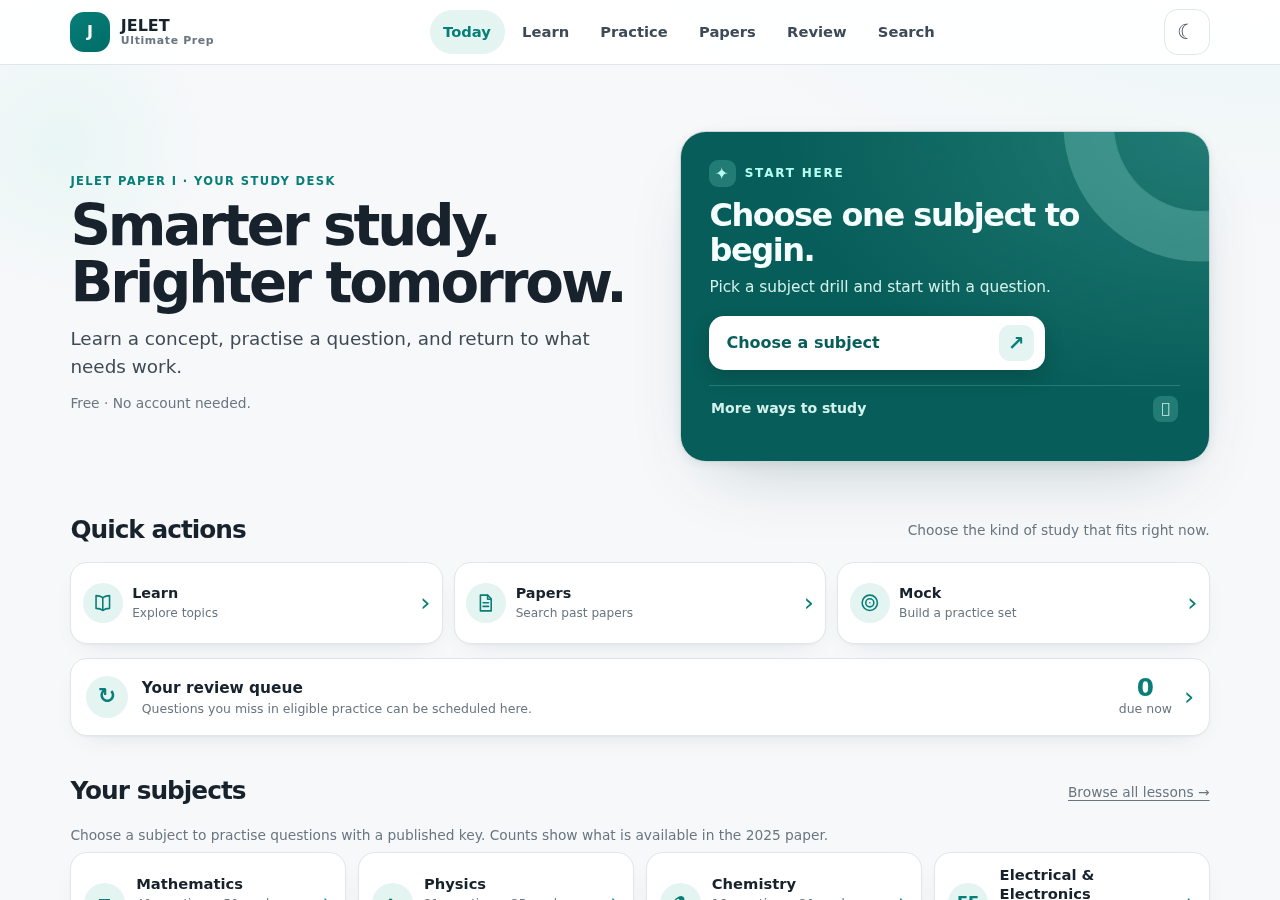
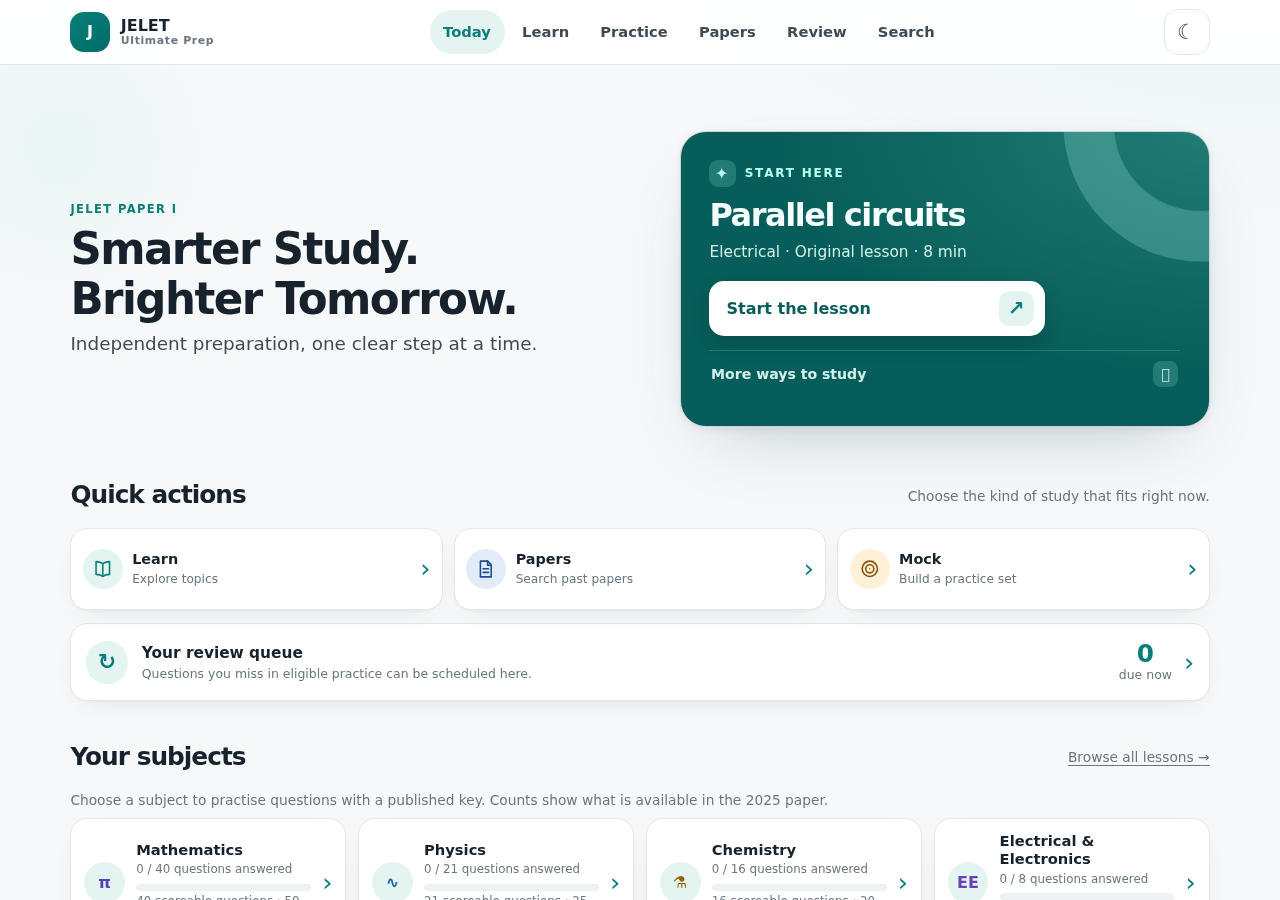
Align Today screen more closely with mobile reference

diff --git a/src/styles/site.css b/src/styles/site.css
@@ -200,12 +200,12 @@ ul, ol { padding-left: 1.3rem; }
 }
 .today-hero-copy { min-width: 0; }
 .today-hero-copy h1 {
-  max-width: 18ch;
-  margin: .35rem 0 .85rem;
-  font-size: clamp(2.15rem, 4.4vw, 3.6rem);
-  font-weight: 850;
-  line-height: 1.02;
-  letter-spacing: -.055em;
+  max-width: 26ch;
+  margin: .25rem 0 .35rem;
+  font-size: clamp(1.55rem, 3.4vw, 2.8rem);
+  font-weight: 800;
+  line-height: 1.14;
+  letter-spacing: -.035em;
   text-wrap: balance;
 }
 .today-subjects { margin: 0; color: var(--ink-2); font-size: clamp(1rem, 1.8vw, 1.15rem); line-height: 1.5; }
@@ -238,7 +238,7 @@ ul, ol { padding-left: 1.3rem; }
 }
 .today-next > * { position: relative; }
 .today-next-label { display: flex; align-items: center; gap: .55rem; margin: 0 0 .7rem; color: var(--feature-accent); font-size: .75rem; font-weight: 850; letter-spacing: .15em; text-transform: uppercase; }
-.today-next-label span { display: grid; place-items: center; width: 1.65rem; height: 1.65rem; border-radius: 9px; background: var(--feature-glow); font-size: 1rem; }
+.today-next-label > span:first-child { display: grid; place-items: center; flex: none; width: 1.65rem; height: 1.65rem; border-radius: 9px; background: var(--feature-glow); font-size: 1rem; }
 .today-next h2 { max-width: 18ch; margin: 0 0 .55rem; font-size: clamp(1.5rem, 2.7vw, 2rem); font-weight: 800; line-height: 1.08; letter-spacing: -.045em; }
 .today-next > p:not(.today-next-label) { max-width: 42ch; color: var(--feature-muted); margin: 0 0 1rem; font-size: .96rem; line-height: 1.55; }
 .today-primary-action {
@@ -353,6 +353,36 @@ ul, ol { padding-left: 1.3rem; }
 .today-subject-copy strong, .today-subject-copy small { display: block; overflow-wrap: anywhere; }
 .today-subject-copy strong { font-size: .92rem; line-height: 1.25; }
 .today-subject-copy small { margin-top: .2rem; color: var(--muted); font-size: .74rem; line-height: 1.3; }
+.today-subject-meter { display: block; height: .42rem; margin: .4rem 0 .1rem; border-radius: 999px; background: var(--paper-2); overflow: hidden; }
+.today-subject-meter > span { display: block; width: 0; height: 100%; border-radius: inherit; background: linear-gradient(90deg, var(--teal), var(--teal-2)); transition: width .35s var(--ease); }
+.today-subject-card[data-subject="mathematics"] .today-subject-icon { color: #5143ba; }
+.today-subject-card[data-subject="physics"] .today-subject-icon { color: #176baf; }
+.today-subject-card[data-subject="chemistry"] .today-subject-icon { color: #976000; }
+.today-subject-card[data-subject="electrical"] .today-subject-icon { color: #6742b2; }
+html[data-theme="dark"] .today-subject-card[data-subject="mathematics"] .today-subject-icon { color: #b7adff; }
+html[data-theme="dark"] .today-subject-card[data-subject="physics"] .today-subject-icon { color: #88c7ff; }
+html[data-theme="dark"] .today-subject-card[data-subject="chemistry"] .today-subject-icon { color: #ffd27f; }
+html[data-theme="dark"] .today-subject-card[data-subject="electrical"] .today-subject-icon { color: #d3b9ff; }
+.today-action-card:nth-child(2) .today-action-icon { background: var(--blue-soft); color: var(--blue); }
+.today-action-card:nth-child(3) .today-action-icon { background: var(--amber-soft); color: var(--amber); }
+.today-encouragement {
+  display: grid;
+  grid-template-columns: 2.7rem minmax(0, 1fr) auto;
+  align-items: center;
+  gap: .8rem;
+  margin-top: .8rem;
+  min-height: 76px;
+  padding: .75rem .9rem;
+  border: 1px solid var(--line);
+  border-radius: 17px;
+  background: linear-gradient(100deg, var(--teal-soft), var(--card));
+  color: var(--ink);
+  text-decoration: none;
+}
+.today-encouragement-icon { display: grid; place-items: center; width: 2.6rem; aspect-ratio: 1; border-radius: 13px; background: var(--teal); color: var(--button-ink); font-size: 1.2rem; }
+.today-encouragement strong, .today-encouragement small { display: block; }
+.today-encouragement small { margin-top: .15rem; color: var(--muted); font-size: .82rem; }
+.today-encouragement-arrow { color: var(--teal); font-size: 1.5rem; }
 .today-record { margin-top: var(--gap); padding: clamp(.9rem, 2.2vw, 1.25rem); border: 1px solid var(--line); border-radius: var(--radius); background: var(--card); box-shadow: var(--shadow); }
 .today-record .section-head { margin-bottom: .7rem; }
 .today-record .section-head h2 { font-size: 1.2rem; }
@@ -607,7 +637,8 @@ footer { border-top: 1px solid var(--line); background: var(--card); color: var(
   .tabbar { display: grid; }
   body { padding-bottom: 4.4rem; }
   .today-hero { grid-template-columns: minmax(0, 1fr); gap: 1rem; }
-  .today-hero-copy h1 { max-width: 18ch; font-size: clamp(2rem, 8.8vw, 2.7rem); }
+  .today-hero-copy h1 { max-width: none; font-size: clamp(1.25rem, 4.8vw, 1.55rem); line-height: 1.2; }
+  .today-subjects { font-size: .9rem; }
   .today-next { border-radius: 16px; padding: 1.05rem; }
   .today-next-label { margin-bottom: .5rem; }
   .today-next h2 { font-size: clamp(1.35rem, 6vw, 1.6rem); margin-bottom: .4rem; }

diff --git a/docs/phases/14-ui-rebuild/README.md b/docs/phases/14-ui-rebuild/README.md
@@ -39,7 +39,7 @@ Document reference-derived visual tokens and component states, then converge glo
 
 Rebuild the first-visit and returning-student home view around an honest resume card, real quick routes, the local review queue and available subject drills. Keep all counts derived from actual paper and device data; keep the full paper library, local record and source/scoring explanation discoverable. Verify 320px/200% text, light/dark, empty and returning states.
 
-**In progress:** the home now has reference-inspired quick-action cards, a review-queue card backed by actual due items, and subject cards backed by the real 2025 keyed drills. The redundant first-visit privacy banner was removed from the home fold; the local-first promise remains in the site copy and detailed trust disclosure. Astro check, static build and the complete 64-test suite pass; focused tests cover new routes, actual review counts, lesson resume, offline use and 320px/200% layout. This screen is not yet owner-reviewed or Android-tested.
+**In progress:** the home now leads with the real parallel-circuits lesson for a first-time learner and resumes its saved section for a returning learner. Quick-action tiles, a local review-queue card, and four subject cards follow the reference structure. Subject bars count distinct non-empty answers in the real 2025 keyed drill; they do not claim lesson completion or mastery. Astro check, static build and the complete 64-test suite pass; focused tests cover the real lesson route, answered-item counts, resume, offline use and 320px/200% layout. This screen is not yet owner-reviewed or Android-tested.
 
 **Current render snapshots:** [390 × 844 mobile](today-current-mobile.png) and [1280 × 900 desktop](today-current-desktop.png), captured from the built static output in bundled headless Chromium. These show the implementation for comparison; they are not physical Android screenshots, a final visual match, or owner acceptance.
 
